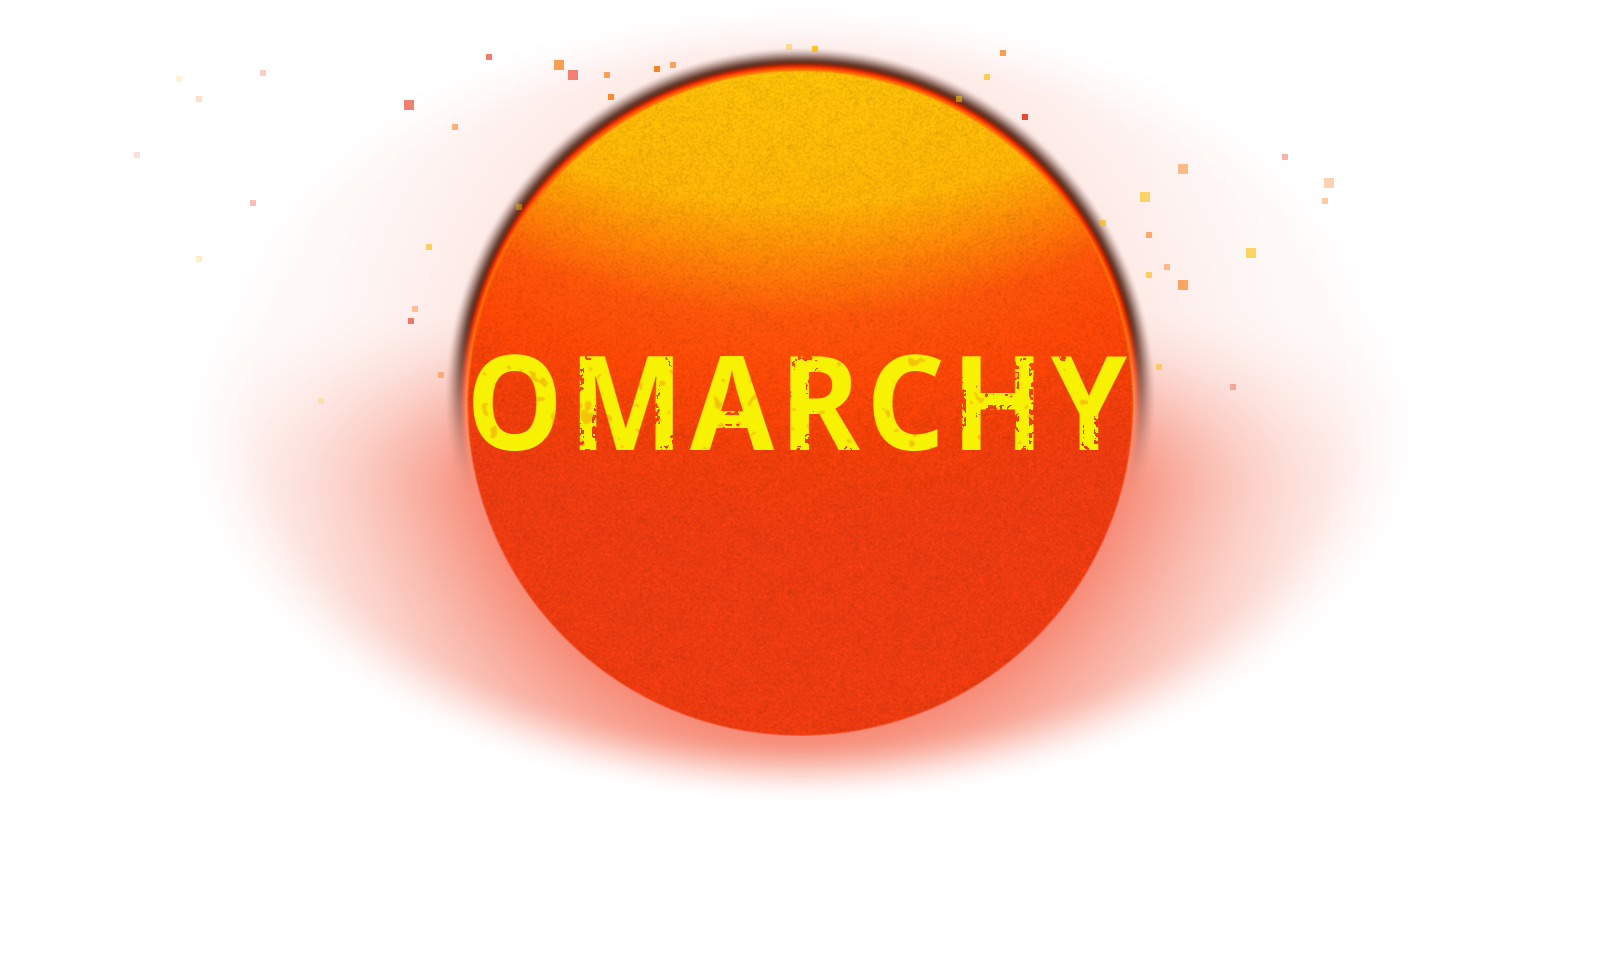
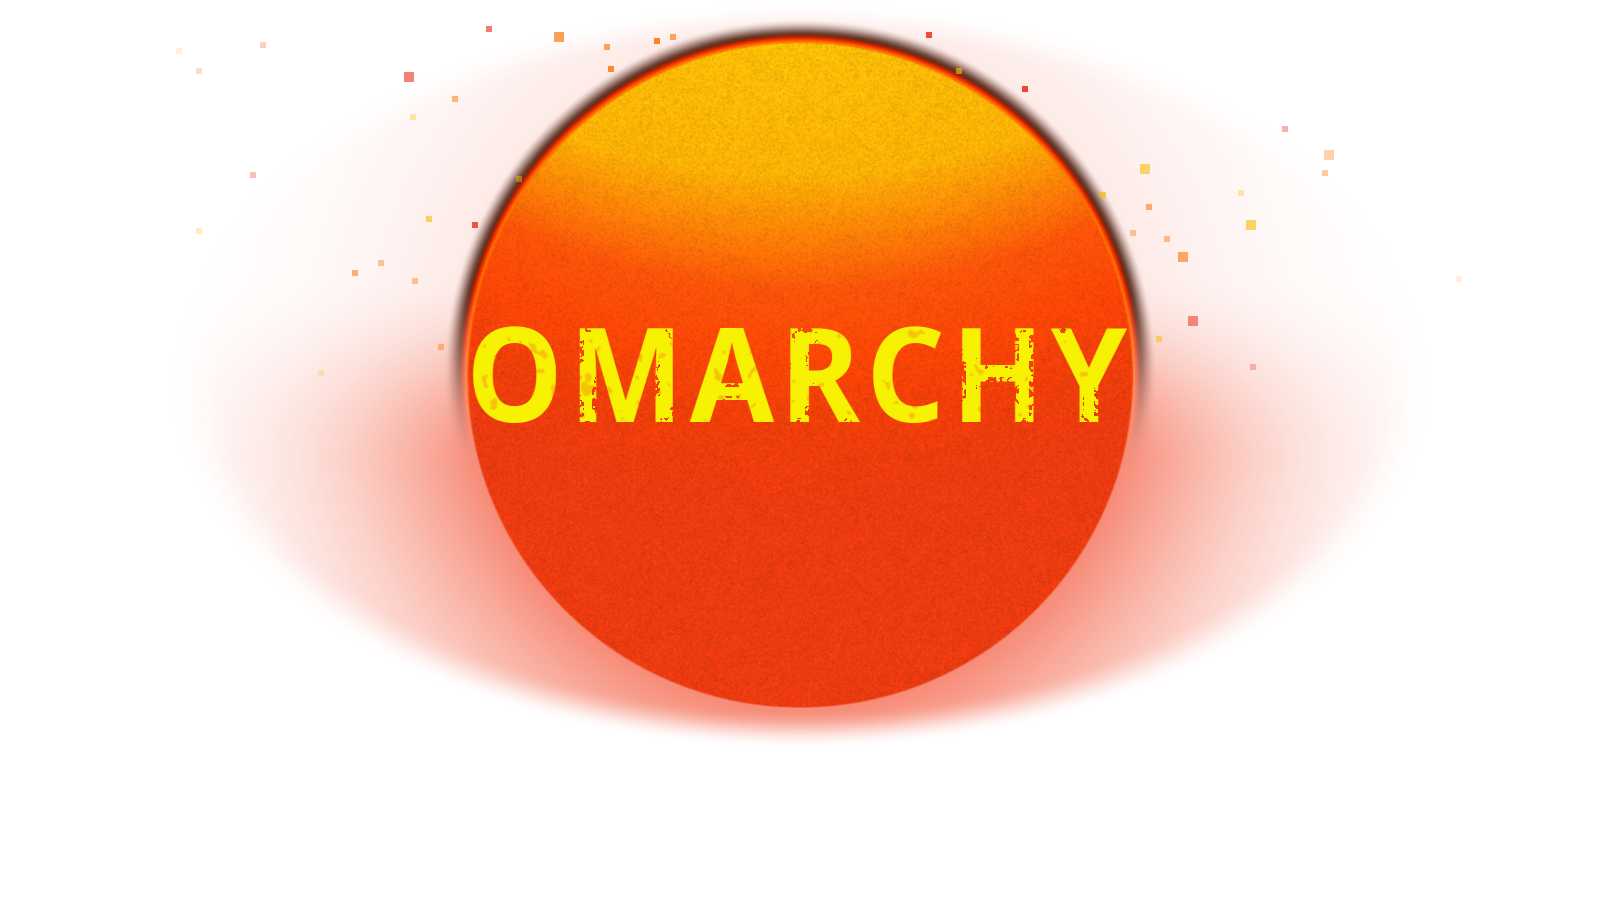
Trim the sun unlock screen's empty space below the sun
Plymouth centres the logo, so its bottom margin has to match its top one.
The top margin is now worked out from the sun, leaving 40px above the disc
(and never less than a tenth of the screen's height), rather than a fixed
tenth. On a 1920x1200 screen the logo goes from 1600x960 to 1600x904 and
the password field from y=1120 to y=1092. verify-sun.py still passes.

diff --git a/tools/sun-unlock.py b/tools/sun-unlock.py
@@ -23,7 +23,9 @@ WALLPAPER_W, WALLPAPER_H, SUN_X, SUN_Y, SUN_R = map(int, geo.groups())
 
 ap = argparse.ArgumentParser(description=__doc__.split('\n')[0])
 ap.add_argument('--screen', default='1920x1200', help='the real screen size, WxH (hyprctl monitors)')
-ap.add_argument('--canvas', help='logo size WxH; default: the screen minus a margin of 1/12 of its width and 1/10 of its height per side')
+ap.add_argument('--canvas', help='logo size WxH; default: the screen minus a margin of 1/12 of its width per side, and as much of its height '
+                                 'per side as leaves 40px above the sun (at least 1/10 of the height). Plymouth centres the logo, so the '
+                                 'bottom margin has to match the top one, and a taller top margin is what shortens the empty space below the sun')
 ap.add_argument('--layer', help='4K sun layer from make-wallpaper.sh --sun-layer; built if omitted')
 ap.add_argument('--word', help='the title PNG; omitted = the sun alone')
 ap.add_argument('--word-dy', type=float, help='title centre, px below the sun centre; default 0: centred on the sun. (On the poster the title sits 0.13 radii low, because it is part of a text block that is itself centred.)')
@@ -35,14 +37,15 @@ ap.add_argument('--screen-layer', help='also write the screen-sized sun layer he
 a = ap.parse_args()
 
 SW, SH = map(int, a.screen.split('x'))
-if a.canvas:
-    CW, CH = map(int, a.canvas.split('x'))
-else:
-    CW, CH = SW - 2 * round(SW / 12), SH - 2 * round(SH / 10)
-assert (SW - CW) % 2 == 0 and (SH - CH) % 2 == 0, 'canvas and screen must have the same parity so Plymouth centers on whole pixels'
 s = max(SW / WALLPAPER_W, SH / WALLPAPER_H)                   # cover-fit scale
 sw_s, sh_s = round(WALLPAPER_W * s), round(WALLPAPER_H * s)   # scaled wallpaper size
 ox, oy = (sw_s - SW) / 2, (sh_s - SH) / 2                      # centered crop, in px (can be half pixels)
+if a.canvas:
+    CW, CH = map(int, a.canvas.split('x'))
+else:
+    sun_top = (SUN_Y - SUN_R) * s - oy                         # the disc's top edge on the screen
+    CW, CH = SW - 2 * round(SW / 12), SH - 2 * max(round(SH / 10), math.floor(sun_top) - 40)
+assert (SW - CW) % 2 == 0 and (SH - CH) % 2 == 0, 'canvas and screen must have the same parity so Plymouth centers on whole pixels'
 x0, y0 = (SW - CW) // 2, (SH - CH) // 2                        # where Plymouth puts the logo's top-left corner
 sun_x, sun_y, sun_r = SUN_X * sw_s / WALLPAPER_W - ox - x0, SUN_Y * s - oy - y0, SUN_R * s   # in logo coordinates
 word_dy = a.word_dy if a.word_dy is not None else 0.0
